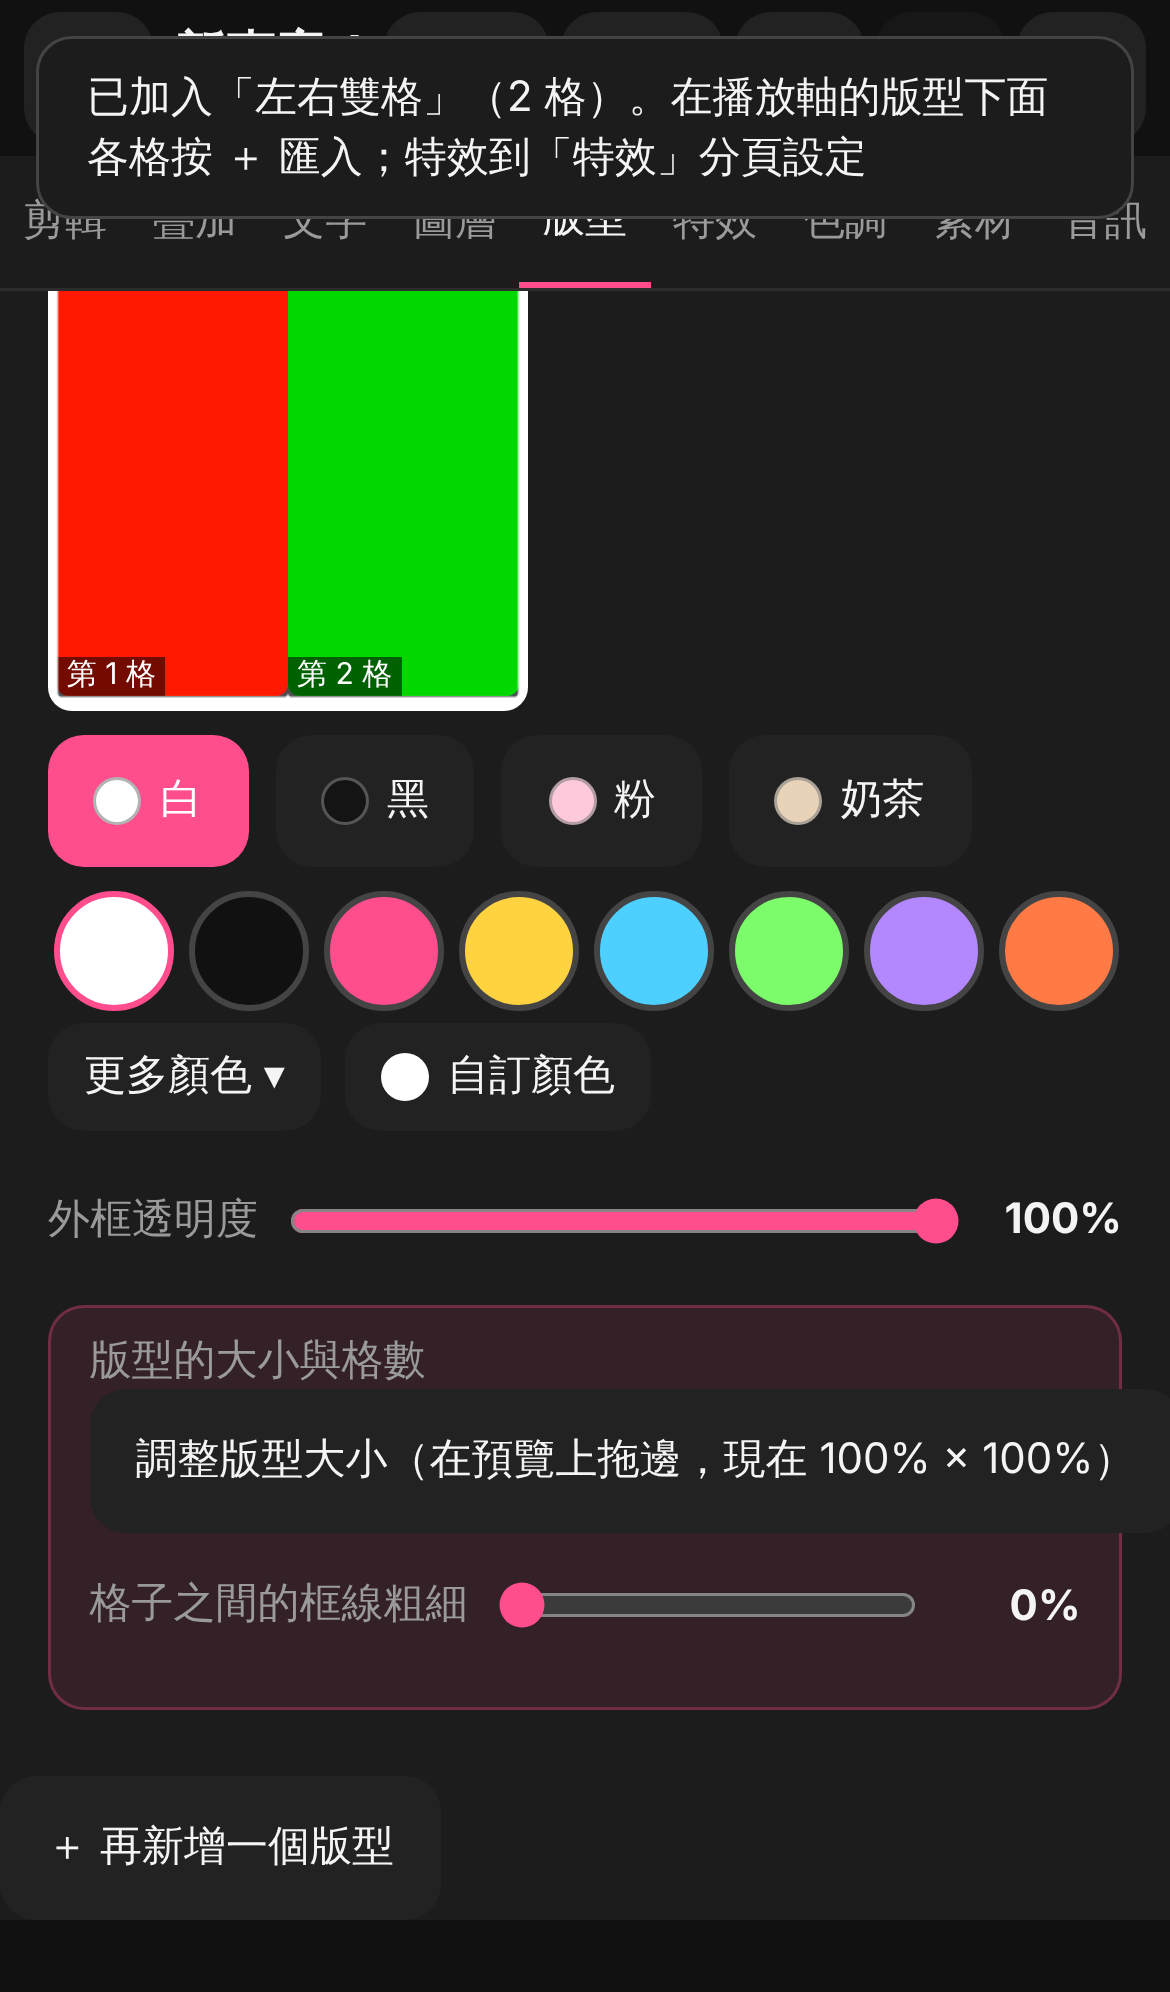
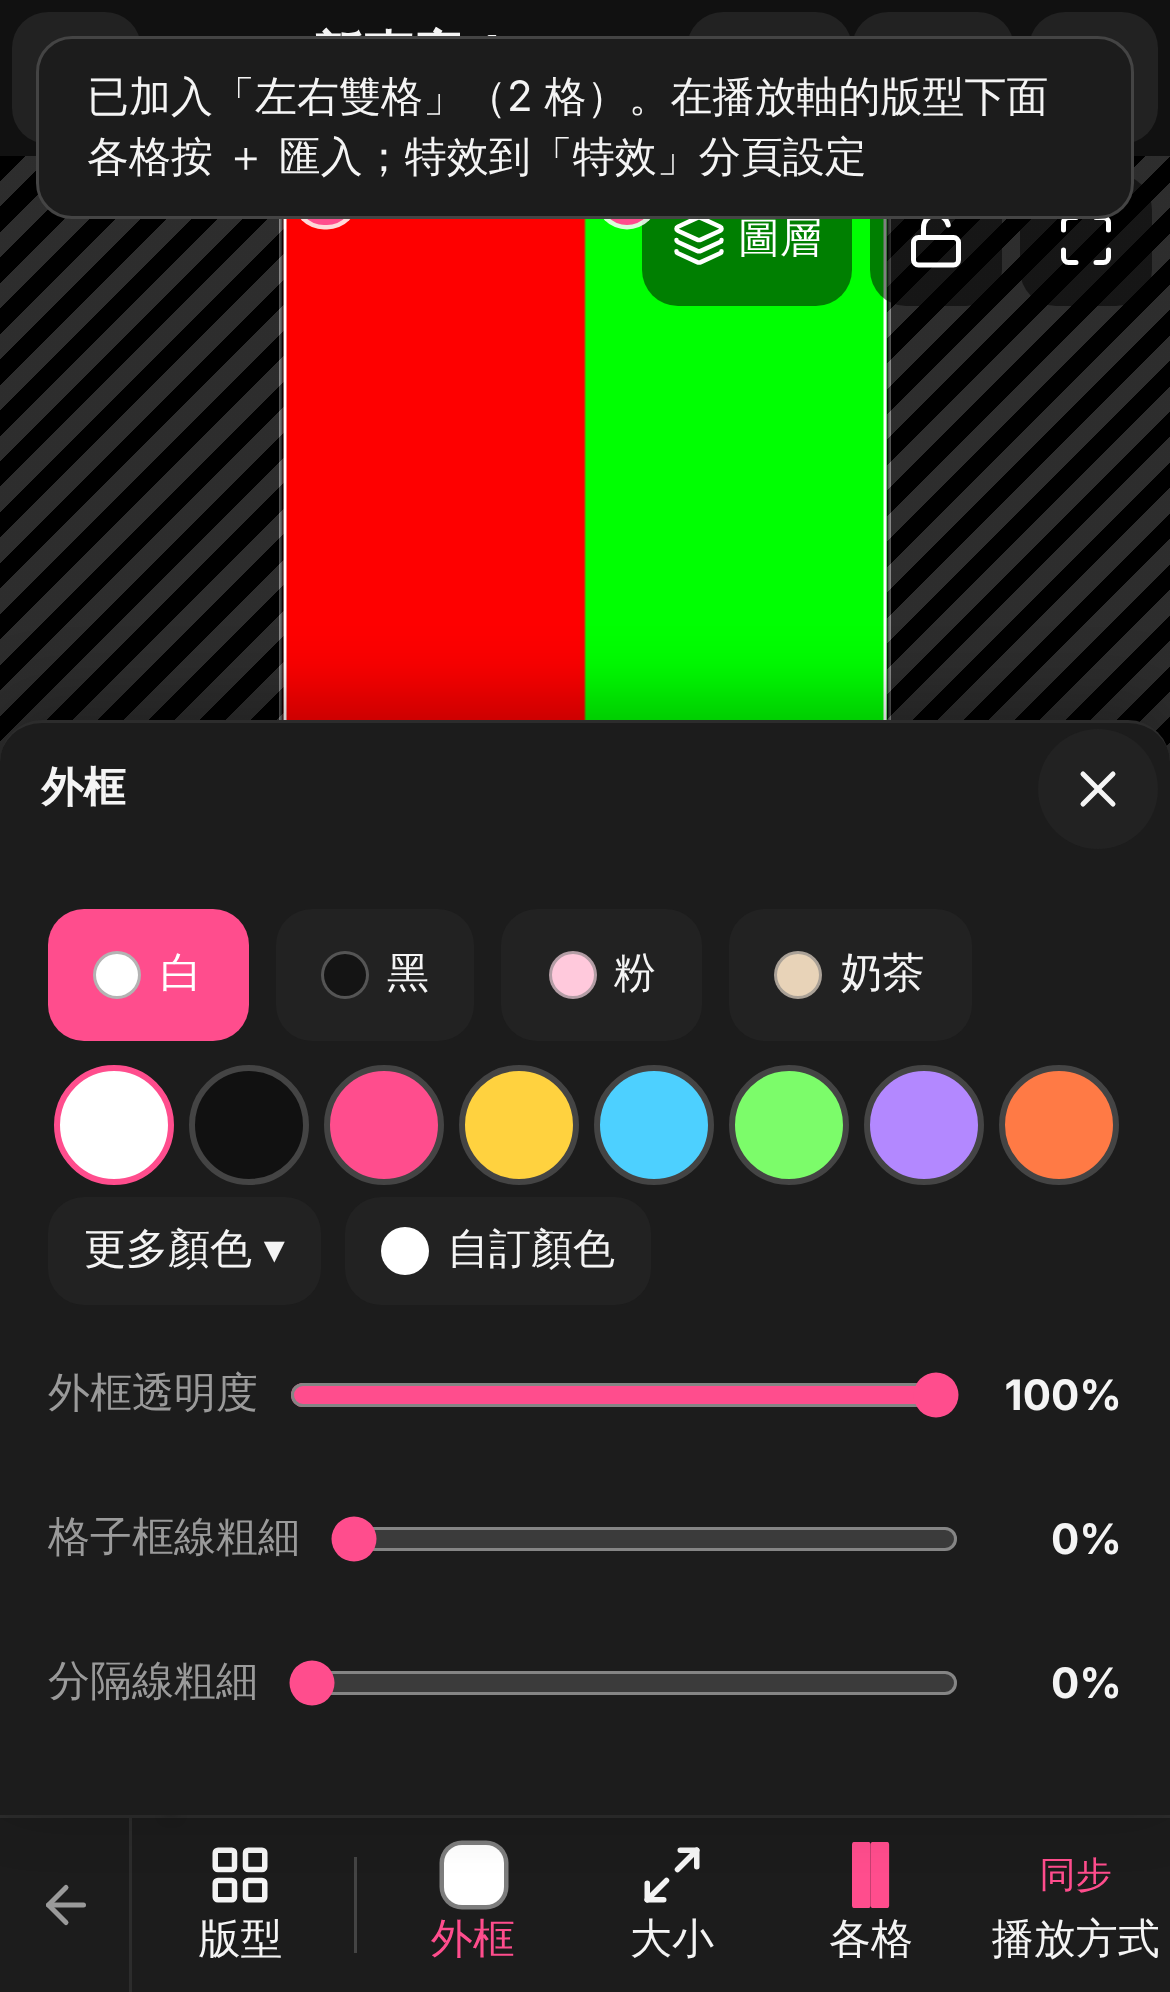
Z2: 版型加〔分隔線粗細〕滑桿（只動格子之間，不動外框邊距）；整體粗細仍一起變

diff --git a/src/engine/layouts.ts b/src/engine/layouts.ts
@@ -405,6 +405,8 @@ export type LayoutShape = {
   box?: { w: number; h: number };
   /** 格子之間框線的粗細倍數（沒有＝1） */
   line?: number;
+  /** 只有格子之間分隔線的粗細倍數（沒有＝跟 line 一樣） */
+  gap?: number;
 };
 
 export const LINE_MAX = 3;
@@ -464,9 +466,11 @@ function edgeLine(
  * 格子離外框邊的距離也變 scale 倍（拍立得的白邊也是）。每一格往內縮（變粗）或往外長（變細）。
  * 完全沒有框線可調的版型（格子貼滿又沒有外框）就不動。
  */
-export function applyLineScale(b: ReturnType<LayoutDef['build']>, scale: number) {
+export function applyLineScale(b: ReturnType<LayoutDef['build']>, scale: number, gapScale?: number) {
   const s = Math.min(Math.max(scale, 0), LINE_MAX);
-  if (Math.abs(s - 1) < 1e-3 || !hasFrameLine(b)) return b;
+  // 格子之間的分隔線：有單獨設分隔線粗細（gapScale）就用它，沒有就跟整體粗細一樣
+  const sIn = gapScale === undefined ? s : Math.min(Math.max(gapScale, 0), LINE_MAX);
+  if ((Math.abs(s - 1) < 1e-3 && Math.abs(sIn - 1) < 1e-3) || !hasFrameLine(b)) return b;
   const outer = b.panels.length ? unionRect(b.panels) : null;
   return {
     ...b,
@@ -474,7 +478,7 @@ export function applyLineScale(b: ReturnType<LayoutDef['build']>, scale: number)
       // 隔壁有格子：空隙兩邊各負擔一半；外框邊：整條都是這一格的
       const grow = (side: 'l' | 'r' | 't' | 'b') => {
         const e = edgeLine(b.windows, i, side, outer);
-        return (e.width * (1 - s)) / (e.inner ? 2 : 1); // 往外長為正、往內縮為負
+        return (e.width * (1 - (e.inner ? sIn : s))) / (e.inner ? 2 : 1); // 往外長為正、往內縮為負
       };
       const gl = grow('l');
       const gr = grow('r');
@@ -523,9 +527,10 @@ export function buildIn(
   box?: { w: number; h: number },
   line?: number,
   cells?: Rect[],
+  gap?: number,
 ): ReturnType<LayoutDef['build']> {
   const b0 = buildBox(def, W, H, box);
-  const b = line === undefined ? b0 : applyLineScale(b0, line);
+  const b = line === undefined && gap === undefined ? b0 : applyLineScale(b0, line ?? 1, gap);
   // 使用者在預覽上拖過格子大小：格子範圍照記下來的（比例 × 畫面），外框的底板不動
   if (cells && cells.length === b.windows.length)
     return { ...b, windows: cells.map((c) => ({ x: c.x * W, y: c.y * H, w: c.w * W, h: c.h * H })) };
@@ -572,8 +577,9 @@ export function paintFrame(
   box?: { w: number; h: number },
   line?: number,
   cells?: Rect[],
+  gap?: number,
 ) {
-  const b = buildIn(def, W, H, box, line, cells);
+  const b = buildIn(def, W, H, box, line, cells, gap);
   const rr = (r: Rect, radius: number) => {
     ctx.roundRect(r.x, r.y, r.w, r.h, Math.min(radius, r.w / 2, r.h / 2));
   };
@@ -605,11 +611,12 @@ export async function renderFramePng(
   box?: { w: number; h: number },
   line?: number,
   cells?: Rect[],
+  gap?: number,
 ): Promise<Blob> {
   const c = document.createElement('canvas');
   c.width = Math.round(W);
   c.height = Math.round(H);
-  paintFrame(c.getContext('2d')!, def, c.width, c.height, color, undefined, opacity, box, line, cells);
+  paintFrame(c.getContext('2d')!, def, c.width, c.height, color, undefined, opacity, box, line, cells, gap);
   return new Promise((ok, bad) =>
     c.toBlob((b) => (b ? ok(b) : bad(new Error('外框轉成圖片失敗'))), 'image/png'),
   );

diff --git a/src/app/editor/tabs/LayoutTab.tsx b/src/app/editor/tabs/LayoutTab.tsx
@@ -1,5 +1,5 @@
 import { useEffect, useRef, useState } from 'react';
-import { GRID_MAX, LINE_MAX, buildIn, defOf, hasFrameLine } from '../../../engine/layouts';
+import { GRID_MAX, LINE_MAX, buildIn, cellGap, defOf, hasFrameLine } from '../../../engine/layouts';
 import { Slider } from '../../../ui/Slider';
 import type { Project, VideoItem } from '../../../model/types';
 import { useUI } from '../../../store/uiStore';
@@ -84,6 +84,16 @@ function FrameBlock({ project, group, frame }: { project: Project; group: string
       ) && (
         <LineSlider key={`${frame.frameStyle.line ?? 1}`} group={group} line={frame.frameStyle.line ?? 1} />
       )}
+      {cellGap(
+        buildIn(defOf(frame.frameStyle), project.width, project.height, frame.frameStyle.box).windows,
+      ) !== undefined && (
+        <LineSlider
+          key={`gap-${frame.frameStyle.gap ?? frame.frameStyle.line ?? 1}`}
+          group={group}
+          line={frame.frameStyle.gap ?? frame.frameStyle.line ?? 1}
+          only="gap"
+        />
+      )}
     </div>
   );
 }
@@ -141,13 +151,13 @@ function PlayControls({ frame }: { frame: VideoItem }) {
 }
 
 /** 格子之間框線的粗細：0%（沒有框線）～300%；停下來 0.4 秒才重畫外框（每次重畫都是一張新的外框圖） */
-function LineSlider({ group, line }: { group: string; line: number }) {
+function LineSlider({ group, line, only }: { group: string; line: number; only?: 'gap' }) {
   const [v, setV] = useState(Math.round(line * 100));
   const timer = useRef<number | undefined>(undefined);
   useEffect(() => () => window.clearTimeout(timer.current), []);
   return (
     <Slider
-      label="格子框線粗細"
+      label={only === 'gap' ? '分隔線粗細' : '格子框線粗細'}
       value={v}
       min={0}
       max={LINE_MAX * 100}
@@ -156,7 +166,15 @@ function LineSlider({ group, line }: { group: string; line: number }) {
       onChange={(n) => {
         setV(n);
         window.clearTimeout(timer.current);
-        timer.current = window.setTimeout(() => void reshapeLayout(group, { line: n / 100 }), 400);
+        timer.current = window.setTimeout(
+          () =>
+            void reshapeLayout(
+              group,
+              // 整體粗細：分隔線跟著一起變（清掉單獨設的分隔線粗細）；分隔線粗細：只動格子之間
+              only === 'gap' ? { gap: n / 100 } : { line: n / 100, gap: undefined },
+            ),
+          400,
+        );
       }}
     />
   );
@@ -224,6 +242,7 @@ function ShapeControls({ project, group, frame }: { project: Project; group: str
                 style.box,
                 style.line,
                 style.cells,
+                style.gap,
               );
               useUI.setState({
                 cellEdit: {

diff --git a/src/engine/layouts.test.ts b/src/engine/layouts.test.ts
@@ -226,6 +226,33 @@ describe('格子之間的框線粗細', () => {
   });
 });
 
+describe('分隔線粗細（只動格子之間，不動外框邊距）', () => {
+  const b0 = gridDef(1, 2).build(1000, 1000);
+  const gapOf = (b: typeof b0) => b.windows[1]!.x - (b.windows[0]!.x + b.windows[0]!.w);
+  const margin = (b: typeof b0) => b.windows[0]!.x - b.panels[0]!.x;
+  it('只給分隔線 3 倍：空隙變 3 倍、外框邊距不變；給 0＝貼在一起但邊距還在', () => {
+    const t = applyLineScale(b0, 1, 3);
+    expect(gapOf(t)).toBeCloseTo(gapOf(b0) * 3, 3);
+    expect(margin(t)).toBeCloseTo(margin(b0), 3);
+    const z = applyLineScale(b0, 1, 0);
+    expect(gapOf(z)).toBeCloseTo(0, 3);
+    expect(margin(z)).toBeCloseTo(margin(b0), 3);
+  });
+  it('整體 2 倍、分隔線單獨設 1 倍：邊距 2 倍、分隔線不變；沒給分隔線＝跟整體一樣', () => {
+    const t = applyLineScale(b0, 2, 1);
+    expect(margin(t)).toBeCloseTo(margin(b0) * 2, 3);
+    expect(gapOf(t)).toBeCloseTo(gapOf(b0), 3);
+    expect(gapOf(applyLineScale(b0, 2))).toBeCloseTo(gapOf(b0) * 2, 3);
+  });
+  it('buildIn 傳 gap；上限 3 倍', () => {
+    expect(gapOf(buildIn(gridDef(1, 2), 1000, 1000, undefined, 1, undefined, 2))).toBeCloseTo(
+      gapOf(b0) * 2,
+      3,
+    );
+    expect(gapOf(applyLineScale(b0, 1, 99))).toBeCloseTo(gapOf(b0) * LINE_MAX, 3);
+  });
+});
+
 describe('自訂每一格的範圍（拖格子大小）', () => {
   it('buildIn 有 cells 且格數對＝格子照 cells（比例 × 畫面）、外框底板不動；格數不對就忽略', () => {
     const d = gridDef(1, 2);

diff --git a/src/app/editor/frameRestyle.ts b/src/app/editor/frameRestyle.ts
@@ -26,6 +26,7 @@ export async function restyleFrame(group: string, patch: Partial<{ color: string
       style.box,
       style.line,
       style.cells,
+      style.gap,
     );
     const file = new File([blob], `版型-${def.name}.png`, { type: 'image/png' });
     const res = await importFiles(p.id, [file]);
@@ -49,6 +50,7 @@ export async function reshapeLayout(
     cols: number;
     box: { w: number; h: number };
     line: number;
+    gap: number | undefined;
     cells: { x: number; y: number; w: number; h: number }[] | undefined;
   }>,
 ) {
@@ -59,6 +61,7 @@ export async function reshapeLayout(
     .find((x) => x.type !== 'text' && x.type !== 'audio' && x.group === group && x.frameStyle);
   if (!frame || frame.type === 'text' || frame.type === 'audio' || !frame.frameStyle) return;
   const style = { ...frame.frameStyle, ...patch };
+  if (style.gap === undefined) delete style.gap;
   // 改格數、版型大小、框線粗細之後，原本拖出來的格子範圍就不適用了：清掉（這次有給 cells 的除外）
   if (!('cells' in patch)) delete style.cells;
   else if (!patch.cells) delete style.cells;
@@ -73,6 +76,7 @@ export async function reshapeLayout(
       style.box,
       style.line,
       style.cells,
+      style.gap,
     );
     const file = new File([blob], `版型-${def.name}.png`, { type: 'image/png' });
     const res = await importFiles(p.id, [file]);

diff --git a/src/model/types.ts b/src/model/types.ts
@@ -199,6 +199,8 @@ export type VideoItem = ItemBase & {
     cells?: { x: number; y: number; w: number; h: number }[];
     /** 格子之間框線的粗細倍數（沒有＝1，原本的粗細；0＝沒有框線，最大 3） */
     line?: number;
+    /** 只有格子之間分隔線的粗細倍數（0＝格子貼在一起，最大 3）。沒有＝分隔線跟 line 一樣；有＝分隔線用它，格子離外框邊的距離仍用 line */
+    gap?: number;
   };
   /** 版型外框專用：最後選的排法（同步＝各格都從版型開頭；依序＝一格接一格，之後加素材／改長度會把後面的格子往後推）。沒有＝同步 */
   layoutPlay?: 'sync' | 'seq';

diff --git a/src/store/actions.ts b/src/store/actions.ts
@@ -969,7 +969,7 @@ export function applyLayoutShape(
   const H = p.height;
   const oldBox = fr.item.frameStyle?.box ?? { w: 1, h: 1 };
   const newBox = style.box ?? { w: 1, h: 1 };
-  const b = buildIn(defOf(style), W, H, style.box, style.line, style.cells);
+  const b = buildIn(defOf(style), W, H, style.box, style.line, style.cells, style.gap);
   const rs = b.panels.length ? b.panels : b.windows;
   const l = Math.min(...rs.map((r) => r.x));
   const tp = Math.min(...rs.map((r) => r.y));

diff --git a/src/app/editor/LayoutDiagram.tsx b/src/app/editor/LayoutDiagram.tsx
@@ -45,6 +45,7 @@ export function LayoutDiagram({
         style.box,
         style.line,
         style.cells,
+        style.gap,
       );
   }, [style, W, H]);
 
